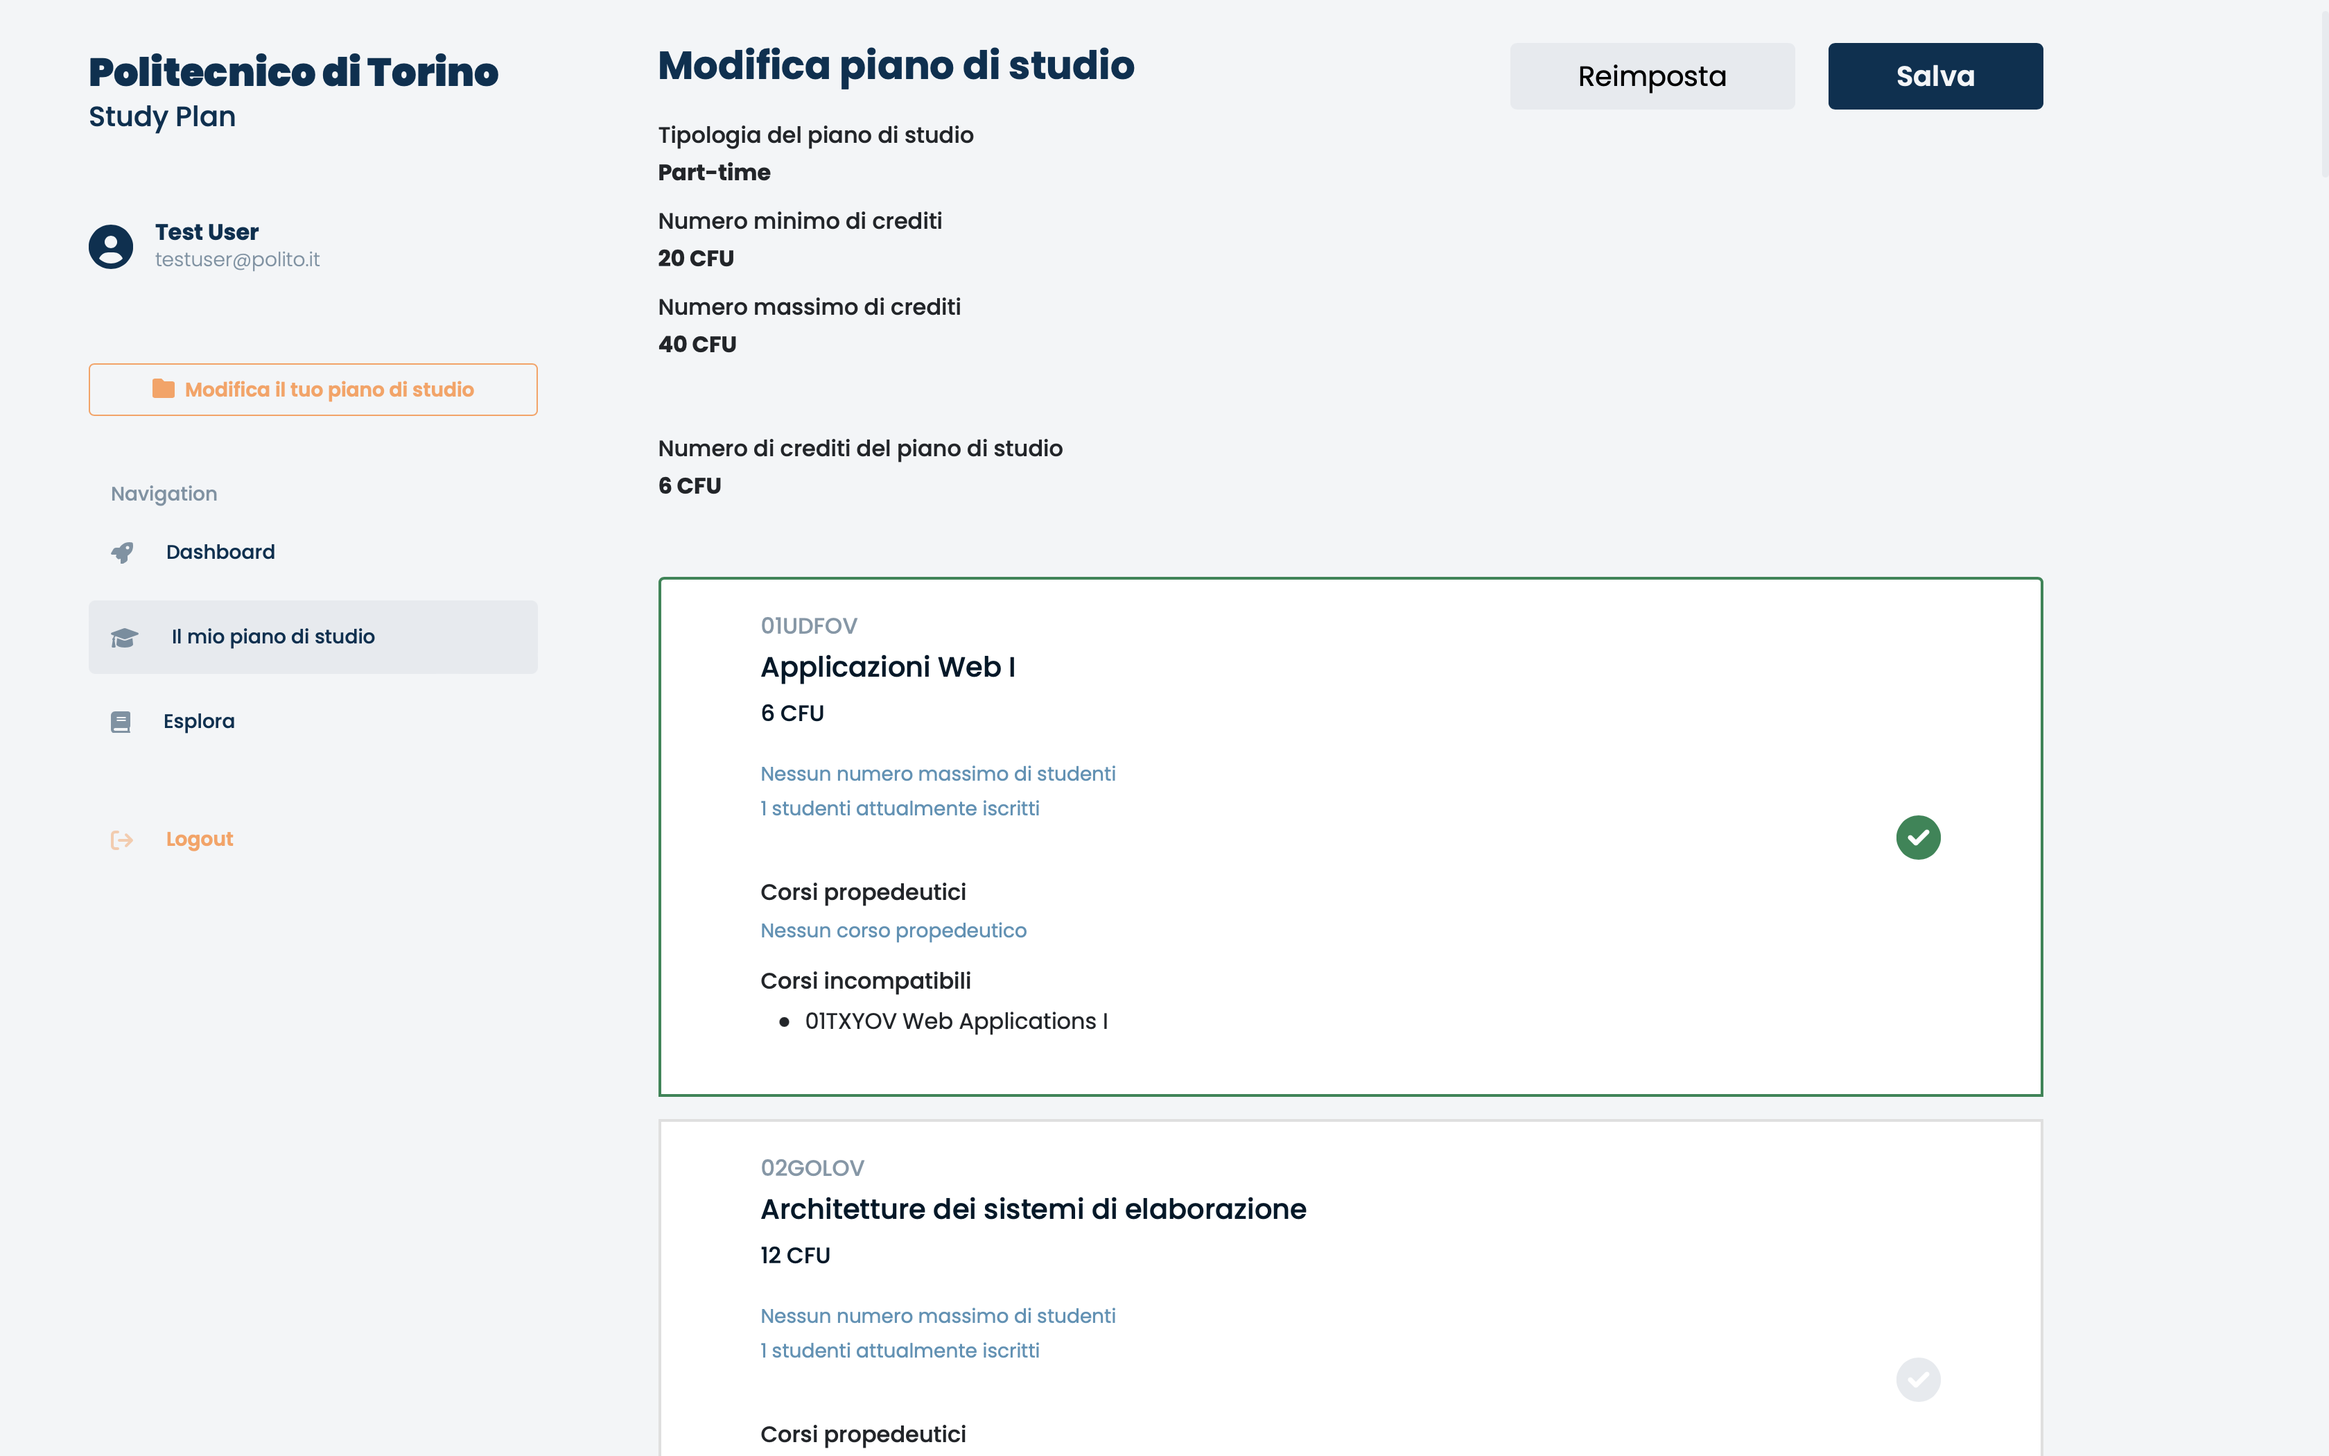
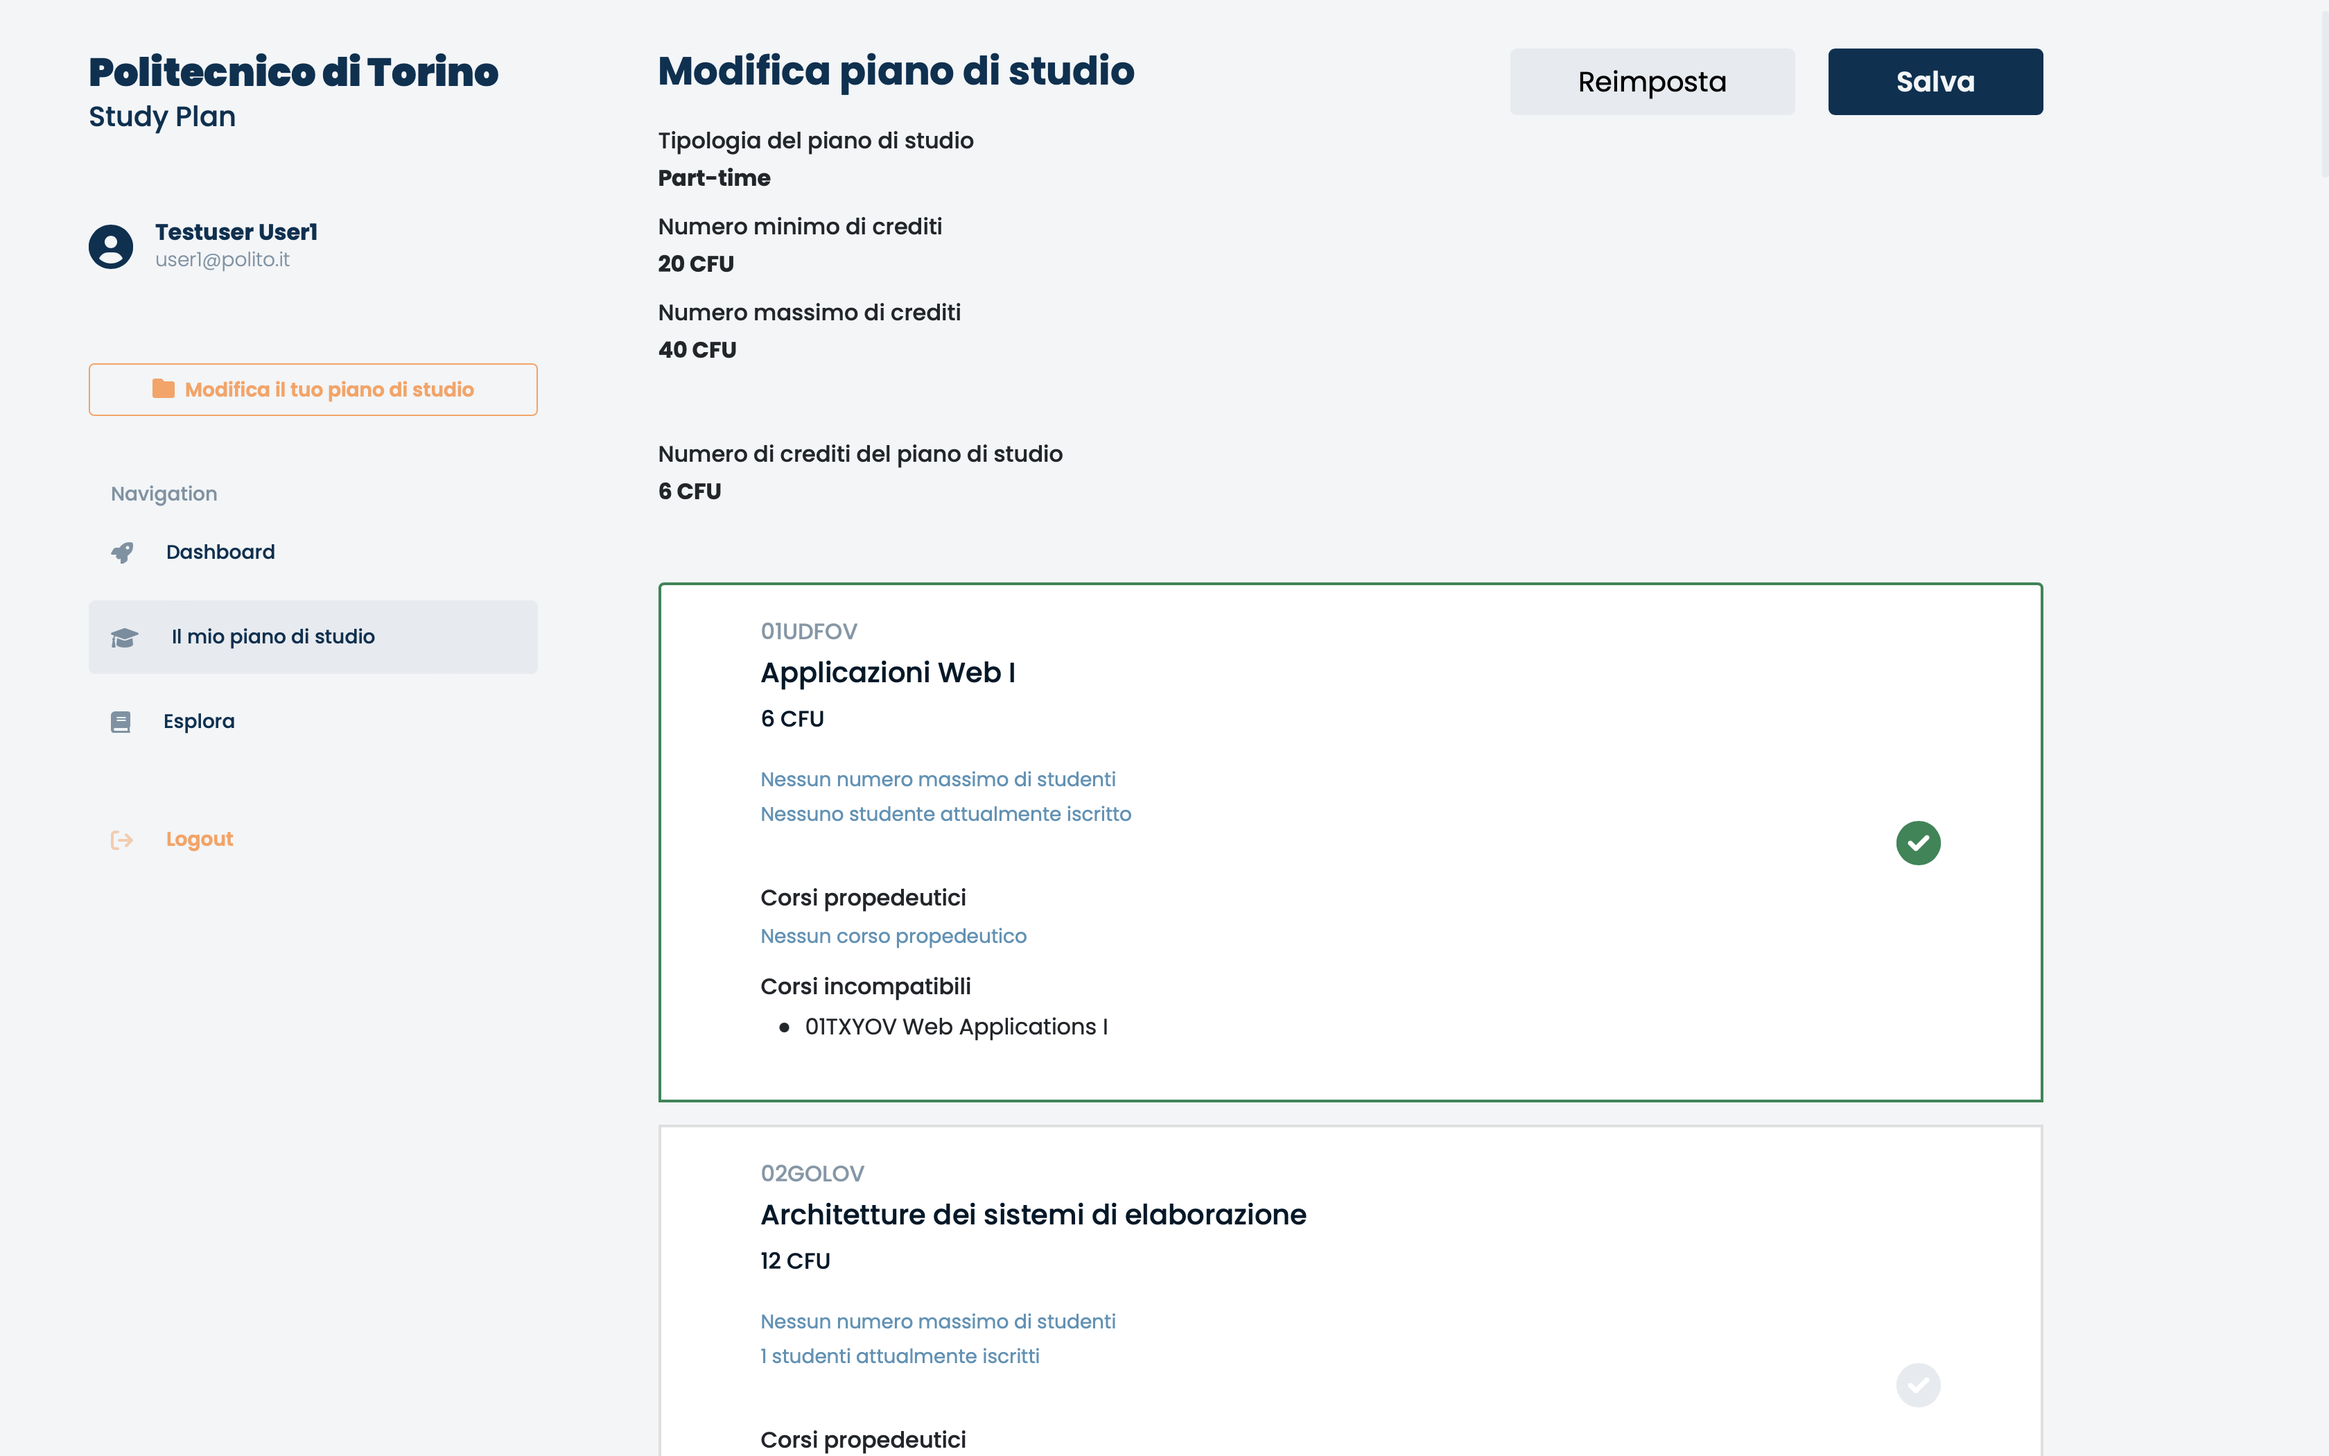
Real credits constraint added and update README.md

diff --git a/server/middlewares/constraints.js b/server/middlewares/constraints.js
@@ -24,8 +24,12 @@ const planModel = require('../models/study-plan.model');
 const listModel = require('../models/courses-list.model');
 
 // Checks if there are some errors associated with courses constraints
-const checkForConstraintsError = (planCourses, courses) => {
-    const constraintError = false;
+const checkForConstraintsError = (planCourses, courses, credits) => {
+    let constraintError = false;
+
+    const initialValue = 0;
+    const realCredits = planCourses.reduce((prevValue, currentCourse) => prevValue + currentCourse.credits, initialValue);
+
     planCourses.forEach(course => {
         // Checks for propedeuticity error
         if (course.preparatoryCourse && !planCourses.includes(courses.find(c => c.code === course.preparatoryCourse.code)))
@@ -35,6 +39,9 @@ const checkForConstraintsError = (planCourses, courses) => {
             constraintError = true;
         // Checks for max enrolled students error
         else if (course.maxStudents && course.maxStudents === course.enrolledStudents)
+            constraintError = true;
+        // Checks for number of credits
+        else if (realCredits !== credits)
             constraintError = true;
     })
     return constraintError;
@@ -60,7 +67,7 @@ exports.withConstraints = (req, res, next) => {
                             })
 
                             // Checks if there is some constraints error
-                            if (checkForConstraintsError(updatedPlan, courses)) {
+                            if (checkForConstraintsError(updatedPlan, courses, parseInt(req.body.plan.credits))) {
                                 // If there is some error, sends an HTTP error as response
                                 const error = new createError.UnprocessableEntity('Study plan constraints not respected')
                                 return res.status(error.statusCode).json({ message: error.message });
@@ -82,7 +89,7 @@ exports.withConstraints = (req, res, next) => {
                         })
 
                         // Checks for some constraint error
-                        if (checkForConstraintsError(updatedPlan, courses)) {
+                        if (checkForConstraintsError(updatedPlan, courses, parseInt(req.body.plan.credits))) {
                             // If there is some error, sends an HTTP error as response
                             const error = new createError.UnprocessableEntity('Study plan constraints not respected')
                             return res.status(error.statusCode).json({ message: error.message });

diff --git a/server/models/courses-list.model.js b/server/models/courses-list.model.js
@@ -51,26 +51,6 @@ exports.getNextId = () => {
     })
 }
 
-// REVIEW THIS <----------------------------------------------------------
-// Function to create a new courses list asociated with a study plan
-exports.createCoursesList = (courses) => {
-    return new Promise((resolve, reject) => {
-        // Gets next id to use to store the new list
-        this.getNextId()
-            .then(id => {
-                const query = 'INSERT INTO courses_lists (id, course_code) VALUES (?, ?)';
-                const stmt = db.prepare(query);
-                courses.map(course => {
-                    stmt.run([id, course], function (err) {
-                        if (err) return reject(new createError.InternalServerError("Error while creating courses list"));
-                    })
-                });
-                resolve(id);
-            })
-            .catch(err => reject(err))
-    })
-}
-
 // Function to insert a new course into a list
 exports.insertCourse = (list, course) => {
     return new Promise((resolve, reject) => {
@@ -94,6 +74,26 @@ exports.removeCourse = (list, course) => {
             if (err) return reject(new createError.InternalServerError(err.message));
             else resolve();
         })
+    })
+}
+
+// REVIEW THIS <----------------------------------------------------------
+// Function to create a new courses list asociated with a study plan
+exports.createCoursesList = (courses) => {
+    return new Promise((resolve, reject) => {
+        // Gets next id to use to store the new list
+        this.getNextId()
+            .then(id => {
+                const query = 'INSERT INTO courses_lists (id, course_code) VALUES (?, ?)';
+                const stmt = db.prepare(query);
+                courses.map(course => {
+                    stmt.run([id, course], function (err) {
+                        if (err) return reject(new createError.InternalServerError("Error while creating courses list"));
+                    })
+                });
+                resolve(id);
+            })
+            .catch(err => reject(err))
     })
 }
 

diff --git a/server/middlewares/session.js b/server/middlewares/session.js
@@ -34,13 +34,15 @@ exports.useLocal = () => passport.use(new LocalStrategy(function verify(username
     userModel.getUserByEmail(username)
         .then(user => {
             // if the user exists, check for password matching
-            crypto.pbkdf2(password, user.salt, 310000, 32, 'sha256', function (err, hashedPassword) {
-                // An error occurs with pbkdf2 or crypto
+            crypto.scrypt(password, user.salt, 32, function (err, hashedPassword) {
+                // An error occurs with crypto
                 if (err) return done(new createError.InternalServerError("Internal server error with crypto"));
+
+                const passwordHex = Buffer.from(user.password, 'hex');
 
                 // If the given password does not match with the one within the DB
                 // return an error.
-                if (!crypto.timingSafeEqual(user.password, hashedPassword))
+                if (!crypto.timingSafeEqual(passwordHex, hashedPassword))
                     return done(new createError.Unauthorized("Username e/o password errati!"));
 
                 // If it's all right, the user is logged in

diff --git a/README.md b/README.md
@@ -5,43 +5,45 @@
 ## Table of Contents
 
 1. [React Client Application Routes](#react-client-application-routes)
-    - [Route `/`](#)
-    - [Route `/login`](#login)
-    - [Route `/explore`](#explore)
-    - [Route `/dashboard`](#dashboard)
-    - [Route `/study-plan`](#study-plan)
-    - [Route `/study-plan/edit`](#study-planedit)
-    - [Route `/*`](#1)
+   - [Route `/`](#)
+   - [Route `/login`](#login)
+   - [Route `/explore`](#explore)
+   - [Route `/dashboard`](#dashboard)
+   - [Route `/study-plan`](#study-plan)
+   - [Route `/study-plan/edit`](#study-planedit)
+   - [Route `/*`](#1)
 2. [API Server](#api-server)
-    - [Sessions Routes](#sessions-routes)
-      - [`POST /api/sessions/password`](#post-apisessionspassword)
-      - [`DELETE /api/sessions/current`](#delete-apisessionscurrent)
-      - [`GET /api/sessions/current`](#get-apisessionscurrent)
-    - [Courses Routes](#courses-routes)
-      - [`GET /api/courses/all`](#get-apicoursesall)
-    - [Study Plan Types Routes](#study-plan-types-routes)
-      - [`GET /api/study-plans/types`](#get-apistudy-planstypes)
-    - [Study Plans Routes](#study-plans-routes)
-      - [`GET /api/study-plans`](#get-apistudy-plans)
-      - [`POST /api/study-plans`](#post-apistudy-plans)
-      - [`PUT /api/study-plans/:id`](#put-apistudy-plansid)
-      - [`DELETE /api/study-plans/:id`](#delete-apistudy-plansid)
+   - [Sessions Routes](#sessions-routes)
+     - [`POST /api/sessions/password`](#post-apisessionspassword)
+     - [`DELETE /api/sessions/current`](#delete-apisessionscurrent)
+     - [`GET /api/sessions/current`](#get-apisessionscurrent)
+   - [Courses Routes](#courses-routes)
+     - [`GET /api/courses/all`](#get-apicoursesall)
+   - [Study Plan Types Routes](#study-plan-types-routes)
+     - [`GET /api/study-plans/types`](#get-apistudy-planstypes)
+   - [Study Plans Routes](#study-plans-routes)
+     - [`GET /api/study-plans`](#get-apistudy-plans)
+     - [`POST /api/study-plans`](#post-apistudy-plans)
+     - [`PUT /api/study-plans/:id`](#put-apistudy-plansid)
+     - [`DELETE /api/study-plans/:id`](#delete-apistudy-plansid)
 3. [Database Tables](#database-tables)
-    - [Table `users`](#users)
-    - [Table `courses`](#courses)
-    - [Table `incompatible_courses`](#incompatiblecourses)
-    - [Table `study_plan_types`](#studyplantypes)
-    - [Table `courses_lists`](#courseslists)
-    - [Table `study_plans`](#studyplans)
+   - [Table `users`](#users)
+   - [Table `courses`](#courses)
+   - [Table `incompatible_courses`](#incompatible_courses)
+   - [Table `study_plan_types`](#study_plan_types)
+   - [Table `courses_lists`](#courses_lists)
+   - [Table `study_plans`](#study_plans)
 4. [Main React Components](#main-react-components)
-    - [Component `LoginForm`](#loginform)
-    - [Component `CourseHeader`](#courseheader)
-    - [Component `CourseBody`](#coursebody)
-    - [Component `ExpandableCourse`](#expandablecourse)
-    - [Component `CoursesList`](#courseslist)
-    - [Component `OptionModal`](#optionmodal)
-    - [Component `SelectableCourse`](#selectablecourse)
-    - [Component `SelectableCoursesList`](#selectablecourseslist)
+   - [Component `LoginForm`](#loginform)
+   - [Component `CourseHeader`](#courseheader)
+   - [Component `CourseBody`](#coursebody)
+   - [Component `ExpandableCourse`](#expandablecourse)
+   - [Component `CoursesList`](#courseslist)
+   - [Component `OptionModal`](#optionmodal)
+   - [Component `SelectableCourse`](#selectablecourse)
+   - [Component `SelectableCoursesList`](#selectablecourseslist)
+5. [Screenshot](#screenshot)
+6. [Users Credentials](#users-credentials)
 
 ## React Client Application Routes
 
@@ -105,8 +107,8 @@ A JSON object containing username and password.
 
 ```json
 {
-	"username": "testuser@polito.it",
-	"password": "password"
+	"username": "user1@polito.it",
+	"password": "Password123*"
 }
 ```
 
@@ -116,10 +118,10 @@ A JSON object containing username and password.
 
 ```json
 {
-	"id": "3",
+	"id": 1,
 	"firstname": "Testuser",
-	"lastname": "Testuser",
-	"email": "testuser@polito.it"
+	"lastname": "User1",
+	"email": "user1@polito.it"
 }
 ```
 
@@ -158,10 +160,10 @@ Gets information about the user, if he is logged in.
 
 ```json
 {
-	"id": "3",
+	"id": 1,
 	"firstname": "Testuser",
-	"lastname": "Testuser",
-	"email": "testuser@polito.it"
+	"lastname": "User1",
+	"email": "user1@polito.it"
 }
 ```
 
@@ -340,6 +342,8 @@ It also updates the number of enrolled students for the courses inserted into th
 
 **Request header:**
 
+`Content-Type: application/json`
+
 `Session: req.user to retrieve the logged in user id`
 
 **Request body:**
@@ -348,16 +352,16 @@ A JSON object containing info about the study plan and a list of courses to inse
 
 ```json
 {
-  "updates": {
-    "inserts": ["01UDFOV", "02GOLOV", "03UEWOV"],
-    "deletes": []
-  }
-  "plan": {
-    "type": 2,
-    "credits": 23,
-    "createDate": "2022-06-21T09:19:11.091Z",
-    "updateDate": "2022-06-21T09:25:03.091Z"
-  }
+	"updates": {
+		"inserts": ["01UDFOV", "02GOLOV", "03UEWOV"],
+		"deletes": []
+	},
+	"plan": {
+		"type": 2,
+		"credits": 23,
+		"createDate": "2022-06-21T09:19:11.091Z",
+		"updateDate": "2022-06-21T09:25:03.091Z"
+	}
 }
 ```
 
@@ -378,6 +382,8 @@ It also updates the number of enrolled students for the courses inserted and rem
 
 **Request header:**
 
+`Content-Type: application/json`
+
 `Session: req.user to retrieve the logged in user id`
 
 `Params: req.params.id to retrieve study plan id`
@@ -388,15 +394,15 @@ A JSON object containing info about the updates for the study plan.
 
 ```json
 {
-  "updates": {
-    "inserts": ["01SQMOV", "01UDUOV"],
-    "deletes": ["03UEWOV"]
-  }
-  "plan": {
-    "type": 2,
-    "credits": 38,
-    "updateDate": "2022-06-23T11:28:03.091Z"
-  }
+	"updates": {
+		"inserts": ["01SQMOV", "01UDUOV"],
+		"deletes": ["03UEWOV"]
+	},
+	"plan": {
+		"type": 2,
+		"credits": 38,
+		"updateDate": "2022-06-23T11:28:03.091Z"
+	}
 }
 ```
 
@@ -494,7 +500,7 @@ course_code (FOREIGN KEY REFERENCES courses(code))
 
 ### `study_plans`
 
-It contains info about the list of courses associated with a study plan.
+It contains info about study plans.
 
 ```
 id (PRIMARY KEY)
@@ -559,11 +565,28 @@ It contains the logic on client-side of the update of a study plan and its corre
 This component shows two lists of SelectableCourse components to show the list of courses already inserted into the study plan associated with a user and the list of courses not selected, possibly disabled.
 Moreover, it checks for study plan courses constraints when a course is selected or deselected.
 
+### `Plan`
+
+`pages/Plan.jsx`
+
+This component shows info about the study plan associated with the logged in user and the list of courses correlated, if they exist. Morover, it contains client-side logic to delete the stuy plan.
+
+### `EditPlan`
+
+`pages/EditPlan.jsx`
+
+This component allows the logged in user to edit his study plan and its correlated list of courses, if they exist. Morover, it contains the client-side logic to perform the creation or the update of the study plan on submit.
+
 ## Screenshot
 
 ![Screenshot](./img/screenshot.png)
 
 ## Users Credentials
 
-- username, password (plus any other requested info)
-- username, password (plus any other requested info)
+| id  | firstname | lastname | email           | password      | study plan |
+| :-- | :-------- | :------- | :-------------- | :------------ | ---------- |
+| 1   | Testuser  | User1    | user1@polito.it | Password123\* | Full-time  |
+| 2   | Testuser  | User2    | user2@polito.it | Password123\* | Part-time  |
+| 3   | Testuser  | User3    | user3@polito.it | Password123\* |
+| 4   | Testuser  | User4    | user4@polito.it | Password123\* |
+| 5   | Testuser  | User5    | user5@polito.it | Password123\* |
